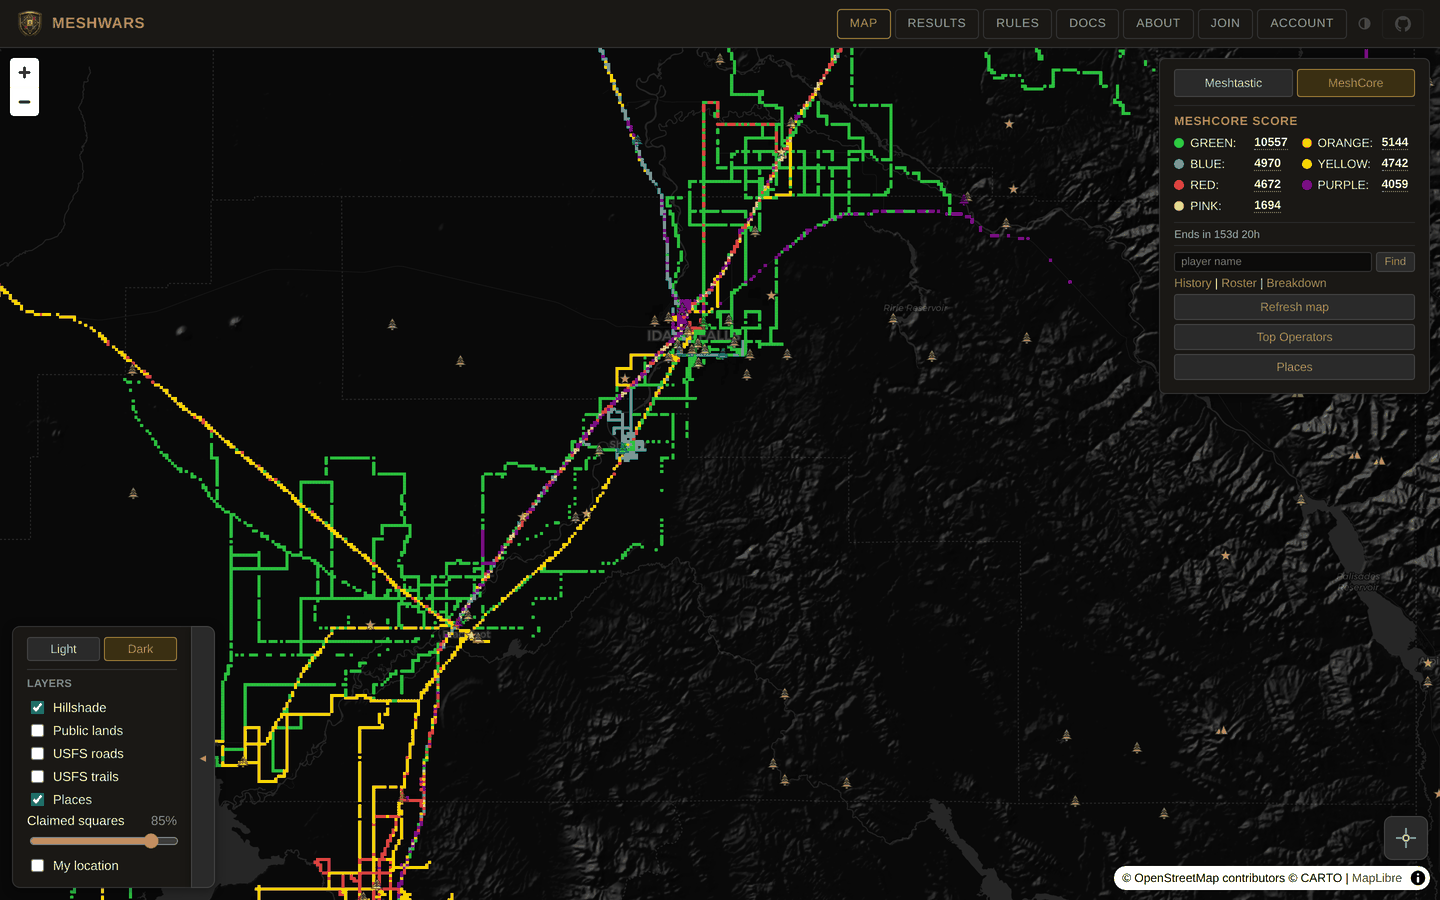
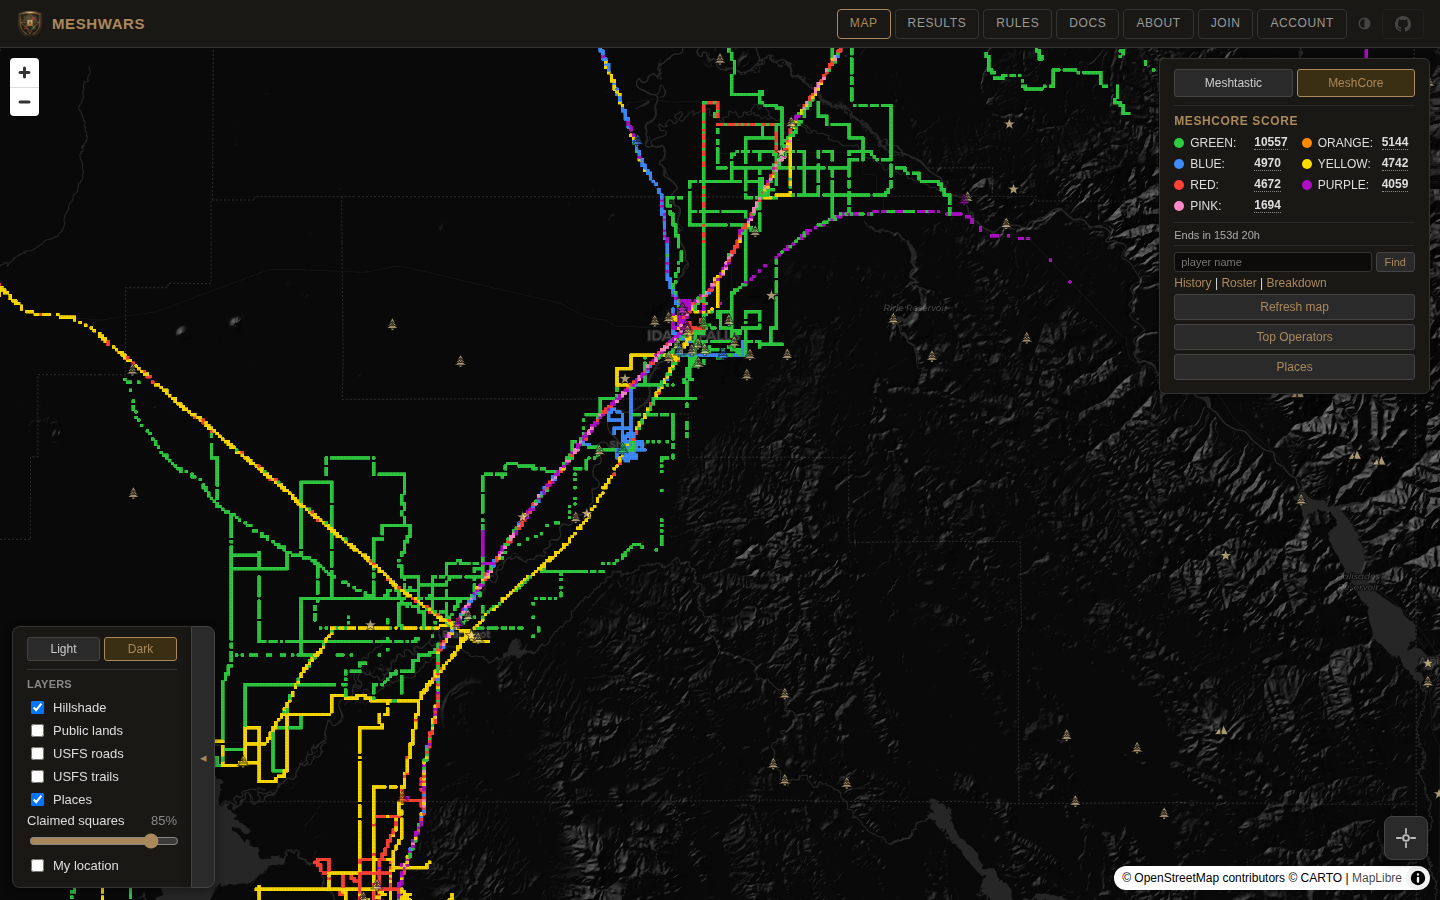
docs: stop palette-crushing the screenshots, show all three boards
The team colour dots in the score panel were coming out sepia. That was
my doing: I was downsampling 2x captures and quantising them to a 256
colour palette to keep the files small. Measured, in the score panel:

    places-park-boundary   0 distinct hues  -- every team dot flat grey
    map.png               14 distinct hues  -- half the palette gone
    native capture        31-32 hues

An adaptive palette spends its colours on whatever dominates the frame
-- terrain, claimed ground -- and the seven small dots that name the
teams get merged into whatever is nearest. On a game whose entire
visual language is seven colours, that is the one thing the image
cannot afford to lose.

Everything is now captured at native 1440x900 and saved unquantised.
optipng -o3 only, which is lossless; verified 31-32 hues survive it.

Restructured to match: the opening section now shows all three boards --
Denver for Colorado Mesh, Salt Lake City for Mountain West Mesh, east
Idaho for FREQ51 -- because they look nothing alike and that is the
point. Project status goes back to the About page screenshot, refreshed,
rather than the map I had wrongly put there.

docs/img is 5.5 MB. Larger than it was, and deliberately: representative
beats small for the images that are meant to show people the game.

Claude-Session: https://claude.ai/code/session_01CMjXQP52DojzR5J7SgK2rj

diff --git a/README.md b/README.md
@@ -4,7 +4,19 @@
 
 A territory control game played over mesh radio. Seven teams claim roughly 300 meter squares of ground by reaching the mesh from them.
 
-![The MeshCore board over the Denver metro — six teams contesting the ground square by square, with places scattered across it](docs/img/map.png)
+![The MeshCore board over the Denver metro — six teams contesting the ground square by square](docs/img/map.png)
+
+*Denver. Colorado Mesh.*
+
+![The board across the Wasatch Front — all seven teams between the Great Salt Lake and the mountains](docs/img/board-salt-lake.png)
+
+*Salt Lake City. Mountain West Mesh.*
+
+![The board across east Idaho — green and yellow tracing the Snake River plain around Idaho Falls](docs/img/board-east-idaho.png)
+
+*East Idaho. FREQ51.*
+
+Every board is shaped by wherever its players actually drive, so no two look alike.
 
 ## What it is
 
@@ -86,11 +98,7 @@ From there an operator can revoke a key, disable or delete a player, and add or 
 
 The MeshCore board is live, out of beta, and played by over a hundred registered players across several mesh communities. The Meshtastic board now runs the same player model and grid, differing only in how position reaches it: pulled from a public meshview instance and scored only for registered nodes. There is no automated test suite. The map currently sends the full board to every client on every load, which will not scale as the number of squares grows.
 
-![The board across east Idaho — green and yellow tracing the Snake River plain around Idaho Falls](docs/img/board-east-idaho.png)
-
-*The same game in east Idaho, where it started. Each community's board looks different because it is shaped by wherever people actually drive.*
-
-![About page](docs/img/about.png)
+![The About page — squares claimed, players registered, season end, and the communities where it's played](docs/img/about.png)
 
 ## Quick start
 
